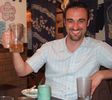
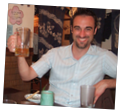
Rotated mugshot images by hand, not with Webkit goodies.

diff --git a/content/css/_theme.sass b/content/css/_theme.sass
@@ -201,10 +201,9 @@ h2
 
 #mugshot
   float: right
-  -webkit-box-shadow: 3px 3px 15px #888 
-  -webkit-transform: rotate(3deg)
-  border: 2px solid #fff
   margin: -10px 0 20px 20px
+  img
+    border: none
 
 #linkedin, #twitter, #github
   img
@@ -240,10 +239,8 @@ h2
 
   h2 img
     float: right
-    border: 2px solid white
+    border: none
     margin: -10px 0 20px 20px
-    -webkit-transform: rotate(3deg)
-    -webkit-box-shadow: 3px 3px 15px #888
 
   ul li
     list-style-type: none
